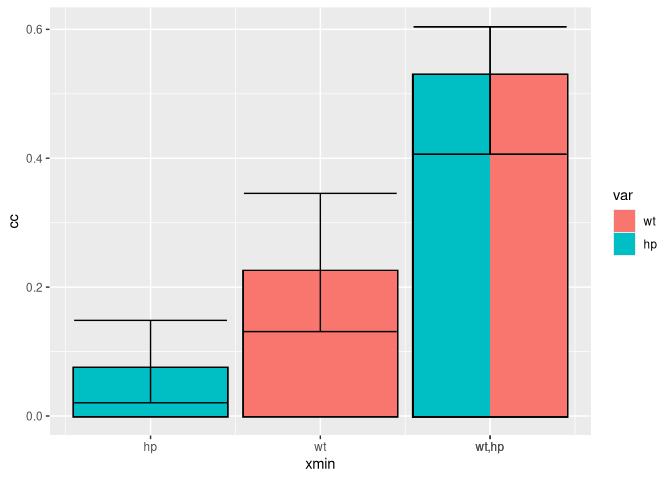
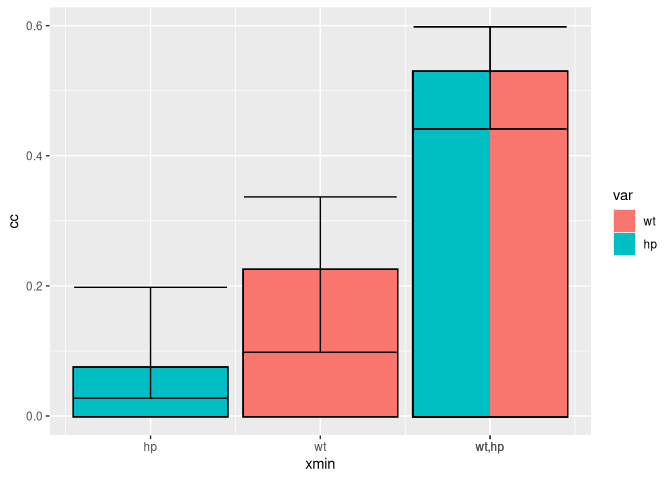
docs: update readme, add vignette

diff --git a/docs/index.html b/docs/index.html
@@ -61,7 +61,7 @@
 </h1></div>
 <!-- badges: start -->
 <!-- badges: end -->
-<p>ggcommonality creates bar plots of unique and joint effects from a commonality analysis of a linear regression model. The S4 branch extends its functionality using an object-oriented syntax. The package calls on <code>yhat</code> to perform commonality analyses (Nimon, Oswald, and Roberts. 2023), building bar plots in the style of those appearing in the <a href="https://maplelab.net" class="external-link">MAPLE Lab’s</a> work applying commonality analysis to the compositions of Bach and Chopin (Anderson and Schutz 2022).</p>
+<p>ggcommonality creates bar plots of unique and joint effects from a commonality analysis of a linear regression model. The S4 branch extends its functionality using an object-oriented syntax. The package calls on <code>yhat</code> to perform commonality analyses (Nimon, Oswald, and Roberts. 2023), building bar plots in the style of those appearing in the <a href="https://maplelab.net" class="external-link">MAPLE Lab’s</a> work applying commonality analysis to the compositions of Bach and Chopin (Delle Grazie, Anderson, and Schutz 2025; Anderson and Schutz 2022).</p>
 <p>Partitions are plotted sequentially in alphabetical order, starting with unique effects and are built iteratively with joint effects at higher orders on top.</p>
 <div class="section level2">
 <h2 id="installation">Installation<a class="anchor" aria-label="anchor" href="#installation"></a>
@@ -99,6 +99,8 @@
 <span><span class="co">#&gt; wild_type        1    -none-                     character</span></span>
 <span><span class="co">#&gt; include_total    1    -none-                     logical  </span></span>
 <span><span class="co">#&gt; get_yhat         1    nonstandardGenericFunction function </span></span>
+<span><span class="co">#&gt; bs_ci            1    -none-                     name     </span></span>
+<span><span class="co">#&gt; ci_bounds        2    -none-                     numeric  </span></span>
 <span><span class="co">#&gt; seed             1    -none-                     name     </span></span>
 <span><span class="co">#&gt; ...              1    -none-                     name     </span></span>
 <span><span class="co">#&gt; class            1    -none-                     character</span></span></code></pre></div>
@@ -106,14 +108,7 @@
 <div class="sourceCode" id="cb3"><pre class="downlit sourceCode r">
 <code class="sourceCode R"><span><span class="co"># visualize commonality effects and add confidence intervals</span></span>
 <span><span class="fu"><a href="https://rdrr.io/r/graphics/plot.default.html" class="external-link">plot</a></span><span class="op">(</span><span class="va">p</span><span class="op">)</span> <span class="op">+</span></span>
-<span>  <span class="fu">add_ci</span><span class="op">(</span><span class="va">p</span><span class="op">)</span></span>
-<span><span class="co">#&gt; Bootstrap confidence intervals:</span></span>
-<span><span class="co">#&gt;       Unique to wt         Unique to hp         Common to wt, and hp</span></span>
-<span><span class="co">#&gt; 2.5%              0.102445            0.0217475            0.4407075</span></span>
-<span><span class="co">#&gt; 97.5%             0.336340            0.1451100            0.6017200</span></span>
-<span><span class="co">#&gt;       Total               </span></span>
-<span><span class="co">#&gt; 2.5%             0.7077775</span></span>
-<span><span class="co">#&gt; 97.5%            0.9461025</span></span></code></pre></div>
+<span>  <span class="fu">add_ci</span><span class="op">(</span><span class="va">p</span><span class="op">)</span></span></code></pre></div>
 <p><img src="reference/figures/README-unnamed-chunk-2-1.png" width="100%"></p>
 <p>We can also check the results from <code>yhat</code></p>
 <div class="sourceCode" id="cb4"><pre class="downlit sourceCode r">
@@ -179,11 +174,11 @@
 <span><span class="co">#&gt; </span></span>
 <span><span class="co">#&gt; $ci</span></span>
 <span><span class="co">#&gt;       Unique to wt         Unique to hp         Common to wt, and hp</span></span>
-<span><span class="co">#&gt; 2.5%              0.102445            0.0217475            0.4407075</span></span>
-<span><span class="co">#&gt; 97.5%             0.336340            0.1451100            0.6017200</span></span>
+<span><span class="co">#&gt; 2.5%             0.0980600            0.0274175            0.4413175</span></span>
+<span><span class="co">#&gt; 97.5%            0.3367575            0.1978650            0.5983050</span></span>
 <span><span class="co">#&gt;       Total               </span></span>
-<span><span class="co">#&gt; 2.5%             0.7077775</span></span>
-<span><span class="co">#&gt; 97.5%            0.9461025</span></span></code></pre></div>
+<span><span class="co">#&gt; 2.5%             0.7218475</span></span>
+<span><span class="co">#&gt; 97.5%            0.9329300</span></span></code></pre></div>
 <p>Commonality effects can be stacked in multiple ways:</p>
 <div class="sourceCode" id="cb5"><pre class="downlit sourceCode r">
 <code class="sourceCode R"><span></span>
@@ -197,12 +192,7 @@
 <span></span>
 <span><span class="co"># stack</span></span>
 <span><span class="fu"><a href="https://rdrr.io/r/graphics/plot.default.html" class="external-link">plot</a></span><span class="op">(</span><span class="va">p</span><span class="op">)</span> <span class="op">+</span></span>
-<span>  <span class="fu">add_ci</span><span class="op">(</span><span class="va">p</span><span class="op">)</span></span>
-<span><span class="co">#&gt; Bootstrap confidence intervals:</span></span>
-<span><span class="co">#&gt;        type     lower   upper</span></span>
-<span><span class="co">#&gt; 2.5% unique 0.2430325 0.38724</span></span>
-<span><span class="co">#&gt;        type   lower    upper</span></span>
-<span><span class="co">#&gt; 2.5% common 0.39058 0.602515</span></span></code></pre></div>
+<span>  <span class="fu">add_ci</span><span class="op">(</span><span class="va">p</span><span class="op">)</span></span></code></pre></div>
 <p><img src="reference/figures/README-unnamed-chunk-3-1.png" width="100%"></p>
 <div class="sourceCode" id="cb6"><pre class="downlit sourceCode r">
 <code class="sourceCode R"><span><span class="co"># define object </span></span>
@@ -215,13 +205,15 @@
 <span>  </span>
 <span><span class="co"># stack</span></span>
 <span><span class="fu"><a href="https://rdrr.io/r/graphics/plot.default.html" class="external-link">plot</a></span><span class="op">(</span><span class="va">p</span><span class="op">)</span> <span class="op">+</span></span>
-<span>  <span class="fu">add_ci</span><span class="op">(</span><span class="va">p</span><span class="op">)</span></span>
-<span><span class="co">#&gt; Bootstrap confidence intervals:</span></span>
-<span><span class="co">#&gt;      category    lower     upper</span></span>
-<span><span class="co">#&gt; 2.5%       wt 0.575685 0.8670875</span></span>
-<span><span class="co">#&gt;      category   lower    upper</span></span>
-<span><span class="co">#&gt; 2.5%       hp 0.44979 0.716075</span></span></code></pre></div>
+<span>  <span class="fu">add_ci</span><span class="op">(</span><span class="va">p</span><span class="op">)</span></span></code></pre></div>
 <p><img src="reference/figures/README-unnamed-chunk-4-1.png" width="100%"></p>
+<p>The <code>bs_ci()</code> method prints confidence intervals generated for stacked effects.</p>
+<div class="sourceCode" id="cb7"><pre class="downlit sourceCode r">
+<code class="sourceCode R"><span><span class="fu">bs_ci</span><span class="op">(</span><span class="va">p</span><span class="op">)</span></span>
+<span><span class="co">#&gt; Bootstrapped confidence intervals:</span></span>
+<span><span class="co">#&gt;       category     lower     upper</span></span>
+<span><span class="co">#&gt; 2.5%        wt 0.5966200 0.8829875</span></span>
+<span><span class="co">#&gt; 2.5%1       hp 0.4777675 0.7305300</span></span></code></pre></div>
 </div>
 </div>
 <div class="section level1">
@@ -229,10 +221,13 @@
 </h1>
 <p>The <code>resample_type</code> argument specifies whether to generate random-<em>x</em>, confidence intervals, fixed-<em>x</em>, or wild-<em>x</em> confidence intervals. The <a href="https://www.john-fox.ca/Companion/" class="external-link">appendices</a> to Fox and Weisberg (2018) summarizes the advantages and disadvantages of fixed vs. random-<em>x</em> bootstrapping. Wild-<em>x</em> provides a solution to fixed-<em>x</em> for models featuring heteroscedasticity by multiplying re-sampled residuals with constants sampled from a Gaussian distribution (<code>wild_type = "gaussian"</code>), or by randomly multiplying half by 1 and half by -1 (<code>wild_type = "sign"</code>).</p>
 <p>If <code>stack_by = "partition"</code>, confidence intervals represent the sum of unique and joint effects for individual commonality partitions. Otherwise, if <code>stack_by = "common"</code>, separate confidence intervals are generated for the sum of unique effects and the sum of joint effects.</p>
+<div class="note">
+<p>For additional details about how confidence intervals can be flexibly defined for negative commonalities, see the ‘Advanced ggcommonality’ vignette.</p>
+</div>
 <div class="section level2">
 <h2 id="comparing-confidence-intervals">Comparing confidence intervals<a class="anchor" aria-label="anchor" href="#comparing-confidence-intervals"></a>
 </h2>
-<div class="sourceCode" id="cb7"><pre class="downlit sourceCode r">
+<div class="sourceCode" id="cb8"><pre class="downlit sourceCode r">
 <code class="sourceCode R"><span><span class="co"># set r's random number generator</span></span>
 <span><span class="va">p1</span> <span class="op">&lt;-</span> <span class="fu"><a href="reference/ggcommonality.html">ggcommonality</a></span><span class="op">(</span></span>
 <span>  formula <span class="op">=</span> <span class="va">my_formula</span>,</span>
@@ -255,38 +250,14 @@
 <span>  <span class="fu"><a href="https://rdrr.io/r/graphics/plot.default.html" class="external-link">plot</a></span><span class="op">(</span><span class="va">p2</span><span class="op">)</span> <span class="op">+</span></span>
 <span>  <span class="fu">add_ci</span><span class="op">(</span><span class="va">p2</span><span class="op">)</span><span class="op">+</span></span>
 <span>    <span class="fu">ylim</span><span class="op">(</span><span class="fl">0</span>,<span class="fl">0.65</span><span class="op">)</span><span class="op">+</span></span>
-<span>  <span class="fu">ggtitle</span><span class="op">(</span><span class="st">"Wild"</span><span class="op">)</span></span>
-<span><span class="co">#&gt;       Unique to wt         Unique to hp         Common to wt, and hp</span></span>
-<span><span class="co">#&gt; 2.5%             0.1337675            0.0142875            0.4594825</span></span>
-<span><span class="co">#&gt; 97.5%            0.3733625            0.1504600            0.5930400</span></span>
-<span><span class="co">#&gt;       Total               </span></span>
-<span><span class="co">#&gt; 2.5%             0.7478275</span></span>
-<span><span class="co">#&gt; 97.5%            0.9133325</span></span>
-<span><span class="co">#&gt;       Unique to wt         Unique to hp         Common to wt, and hp</span></span>
-<span><span class="co">#&gt; 2.5%             0.1337675            0.0142875            0.4594825</span></span>
-<span><span class="co">#&gt; 97.5%            0.3733625            0.1504600            0.5930400</span></span>
-<span><span class="co">#&gt;       Total               </span></span>
-<span><span class="co">#&gt; 2.5%             0.7478275</span></span>
-<span><span class="co">#&gt; 97.5%            0.9133325</span></span>
-<span><span class="co">#&gt;       Unique to wt         Unique to hp         Common to wt, and hp</span></span>
-<span><span class="co">#&gt; 2.5%             0.1208525            0.0196800              0.43912</span></span>
-<span><span class="co">#&gt; 97.5%            0.3378900            0.1432725              0.61448</span></span>
-<span><span class="co">#&gt;       Total               </span></span>
-<span><span class="co">#&gt; 2.5%              0.699095</span></span>
-<span><span class="co">#&gt; 97.5%             0.943825</span></span>
-<span><span class="co">#&gt;       Unique to wt         Unique to hp         Common to wt, and hp</span></span>
-<span><span class="co">#&gt; 2.5%             0.1208525            0.0196800              0.43912</span></span>
-<span><span class="co">#&gt; 97.5%            0.3378900            0.1432725              0.61448</span></span>
-<span><span class="co">#&gt;       Total               </span></span>
-<span><span class="co">#&gt; 2.5%              0.699095</span></span>
-<span><span class="co">#&gt; 97.5%             0.943825</span></span></code></pre></div>
-<p><img src="reference/figures/README-unnamed-chunk-5-1.png" width="100%"></p>
+<span>  <span class="fu">ggtitle</span><span class="op">(</span><span class="st">"Wild"</span><span class="op">)</span></span></code></pre></div>
+<p><img src="reference/figures/README-unnamed-chunk-6-1.png" width="100%"></p>
 </div>
 </div>
 <div class="section level1">
 <h1 id="getting-help">Getting help<a class="anchor" aria-label="anchor" href="#getting-help"></a>
 </h1>
-<p>For additional information, read the help documentation <code>?ggcommonality()</code>, or <a href="mailto:andersoc@mcmaster.ca">email Cameron Anderson</a>!</p>
+<p>For additional information, read the help documentation <code>?ggcommonality()</code>, or <a href="mailto:andersoc@mcmaster.ca">email Cameron Anderson</a>.</p>
 </div>
 <div class="section level1">
 <h1 id="references">References<a class="anchor" aria-label="anchor" href="#references"></a>
@@ -294,6 +265,9 @@
 <div id="refs" class="references csl-bib-body hanging-indent" entry-spacing="0">
 <div id="ref-anderson2022exploring" class="csl-entry">
 Anderson, Cameron J, and Michael Schutz. 2022. “Exploring Historic Changes in Musical Communication: Deconstructing Emotional Cues in Preludes by Bach and Chopin.” <em>Psychology of Music</em> 50 (5): 1424–42.
+</div>
+<div id="ref-delle2025breaking" class="csl-entry">
+Delle Grazie, Max, Cameron J Anderson, and Michael Schutz. 2025. “Breaking with Common Practice: Exploring Modernist Musical Emotion.” <em>Psychology of Music</em>, 03057356241296852.
 </div>
 <div id="ref-fox2018r" class="csl-entry">
 Fox, John, and Sanford Weisberg. 2018. <em>An r Companion to Applied Regression</em>. Sage publications.

diff --git a/README.md b/README.md
@@ -60,6 +60,8 @@ p |> attributes() |> summary()
 #> wild_type        1    -none-                     character
 #> include_total    1    -none-                     logical  
 #> get_yhat         1    nonstandardGenericFunction function 
+#> bs_ci            1    -none-                     name     
+#> ci_bounds        2    -none-                     numeric  
 #> seed             1    -none-                     name     
 #> ...              1    -none-                     name     
 #> class            1    -none-                     character
@@ -72,20 +74,6 @@ built-in methods.
 # visualize commonality effects and add confidence intervals
 plot(p) +
   add_ci(p)
-#> Bootstrap confidence intervals:
-#>       Unique to wt         Unique to hp         Common to wt, and hp
-#> 2.5%             0.1309825             0.020545            0.4061000
-#> 97.5%            0.3454650             0.148425            0.6040325
-#>       Total               
-#> 2.5%             0.6928625
-#> 97.5%            0.9439675
-#> Bootstrap confidence intervals:
-#>       Unique to wt         Unique to hp         Common to wt, and hp
-#> 2.5%             0.1309825             0.020545            0.4061000
-#> 97.5%            0.3454650             0.148425            0.6040325
-#>       Total               
-#> 2.5%             0.6928625
-#> 97.5%            0.9439675
 ```
 
 <img src="man/figures/README-unnamed-chunk-2-1.png" width="100%" />
@@ -155,11 +143,11 @@ get_yhat(p)
 #> 
 #> $ci
 #>       Unique to wt         Unique to hp         Common to wt, and hp
-#> 2.5%             0.1309825             0.020545            0.4061000
-#> 97.5%            0.3454650             0.148425            0.6040325
+#> 2.5%             0.0980600            0.0274175            0.4413175
+#> 97.5%            0.3367575            0.1978650            0.5983050
 #>       Total               
-#> 2.5%             0.6928625
-#> 97.5%            0.9439675
+#> 2.5%             0.7218475
+#> 97.5%            0.9329300
 ```
 
 Commonality effects can be stacked in multiple ways:
@@ -177,11 +165,6 @@ p <- ggcommonality(
 # stack
 plot(p) +
   add_ci(p)
-#> Bootstrap confidence intervals:
-#>        type     lower    upper
-#> 2.5% unique 0.2506725 0.379575
-#>        type     lower    upper
-#> 2.5% common 0.4427775 0.602435
 ```
 
 <img src="man/figures/README-unnamed-chunk-3-1.png" width="100%" />
@@ -198,14 +181,20 @@ p <- ggcommonality(
 # stack
 plot(p) +
   add_ci(p)
-#> Bootstrap confidence intervals:
-#>      category    lower   upper
-#> 2.5%       wt 0.629705 0.87233
-#>      category     lower    upper
-#> 2.5%       hp 0.4417625 0.720255
 ```
 
 <img src="man/figures/README-unnamed-chunk-4-1.png" width="100%" />
+
+The `bs_ci()` method prints confidence intervals generated for stacked
+effects.
+
+``` r
+bs_ci(p)
+#> Bootstrapped confidence intervals:
+#>       category     lower     upper
+#> 2.5%        wt 0.5966200 0.8829875
+#> 2.5%1       hp 0.4777675 0.7305300
+```
 
 # Confidence intervals
 
@@ -223,6 +212,14 @@ If `stack_by = "partition"`, confidence intervals represent the sum of
 unique and joint effects for individual commonality partitions.
 Otherwise, if `stack_by = "common"`, separate confidence intervals are
 generated for the sum of unique effects and the sum of joint effects.
+
+<div class="note">
+
+For additional details about how confidence intervals can be flexibly
+defined for negative commonalities, see the ‘Advanced ggcommonality’
+vignette.
+
+</div>
 
 ## Comparing confidence intervals
 
@@ -250,39 +247,15 @@ plot(p1) +
   add_ci(p2)+
     ylim(0,0.65)+
   ggtitle("Wild")
-#>       Unique to wt         Unique to hp         Common to wt, and hp
-#> 2.5%             0.1225775            0.0159325              0.45048
-#> 97.5%            0.3579475            0.1570925              0.59279
-#>       Total               
-#> 2.5%             0.7532200
-#> 97.5%            0.9122625
-#>       Unique to wt         Unique to hp         Common to wt, and hp
-#> 2.5%             0.1225775            0.0159325              0.45048
-#> 97.5%            0.3579475            0.1570925              0.59279
-#>       Total               
-#> 2.5%             0.7532200
-#> 97.5%            0.9122625
-#>       Unique to wt         Unique to hp         Common to wt, and hp
-#> 2.5%             0.1040175            0.0196225              0.39819
-#> 97.5%            0.3716800            0.1802075              0.61039
-#>       Total               
-#> 2.5%             0.6406675
-#> 97.5%            0.9403900
-#>       Unique to wt         Unique to hp         Common to wt, and hp
-#> 2.5%             0.1040175            0.0196225              0.39819
-#> 97.5%            0.3716800            0.1802075              0.61039
-#>       Total               
-#> 2.5%             0.6406675
-#> 97.5%            0.9403900
 ```
 
-<img src="man/figures/README-unnamed-chunk-5-1.png" width="100%" />
+<img src="man/figures/README-unnamed-chunk-6-1.png" width="100%" />
 
 # Getting help
 
 For additional information, read the help documentation
 `?ggcommonality()`, or [email Cameron
-Anderson](mailto:andersoc@mcmaster.ca)!
+Anderson](mailto:andersoc@mcmaster.ca).
 
 # References
 
